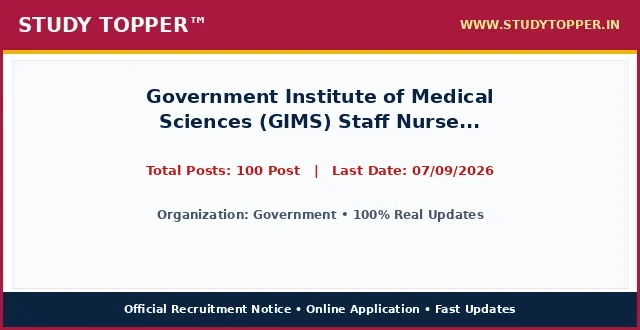
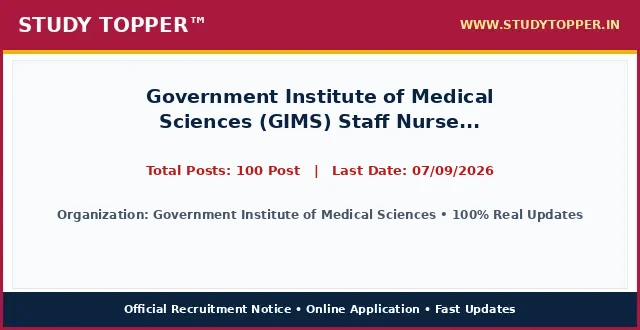
chore(lifecycle): daily auto-sort vacancies and update active dates

Changed region(s): [[0.0938, 0.6364, 0.9062, 0.6667]]

diff --git a/pages/gims-staff-nurse-august26.html b/pages/gims-staff-nurse-august26.html
@@ -987,12 +987,12 @@ ul.wp-block-latest-posts a:hover {
 <main class="site-main" id="main">
 <div class="gb-container gb-container-b39c368c">
 <h1 class="gb-headline gb-headline-e52a0102 gb-headline-text" style="font-size: 22px; font-weight: 700; color: #0000cd; text-align: left; margin: 8px 0 4px 0; line-height: 1.3; width: 100%; font-family: '-apple-system, BlinkMacSystemFont, 'Segoe UI', Roboto, 'Helvetica Neue', Arial, sans-serif', Times, serif, Hind, sans-serif;">Government Institute of Medical Sciences (GIMS) Staff Nurse Recruitment 2026 Apply Online for 100 Post</h1>
-<div class="gb-container gb-container-659bd175"><p style="color: #cd0808; font-weight: 700; font-size: 15px; margin: 2px 0 7px 0; text-align: left; font-family: '-apple-system, BlinkMacSystemFont, 'Segoe UI', Roboto, 'Helvetica Neue', Arial, sans-serif', Times, serif, Hind, sans-serif;">Post Date: August 22, 2026 12:43 PM</p></div>
-<p class="gb-headline gb-headline-550ae316 short_Details gb-headline-text" style="width: 100%; max-width: 100%; font-size: 16.8px; line-height: 1.55; color: #000000; text-align: justify; text-justify: inter-word; margin: 8px 0 14px 0; display: block; font-family: '-apple-system, BlinkMacSystemFont, 'Segoe UI', Roboto, 'Helvetica Neue', Arial, sans-serif', Times, serif, Hind, sans-serif;"><strong style="color: #0000cd;">Government</strong> has officially published the recruitment notice <strong style="color: #cd0808;">Government Institute of Medical Sciences (GIMS) Staff Nurse Recruitment 2026 Apply Online for 100 Post</strong> under notification number 2026. Online applications are invited for 100 Post across multiple departments and cadre positions. Interested candidates possessing the requisite educational qualifications and falling between 18 Years to 40 Years can complete their online registration before the application deadline of 07/09/2026. Applicants should read the eligibility criteria, category reservation rules, and exam scheme thoroughly before submitting applications.</p>
+<div class="gb-container gb-container-659bd175"><p style="color: #cd0808; font-weight: 700; font-size: 15px; margin: 2px 0 7px 0; text-align: left; font-family: '-apple-system, BlinkMacSystemFont, 'Segoe UI', Roboto, 'Helvetica Neue', Arial, sans-serif', Times, serif, Hind, sans-serif;">Post Date: August 22, 2026 12:52 PM</p></div>
+<p class="gb-headline gb-headline-550ae316 short_Details gb-headline-text" style="width: 100%; max-width: 100%; font-size: 16.8px; line-height: 1.55; color: #000000; text-align: justify; text-justify: inter-word; margin: 8px 0 14px 0; display: block; font-family: '-apple-system, BlinkMacSystemFont, 'Segoe UI', Roboto, 'Helvetica Neue', Arial, sans-serif', Times, serif, Hind, sans-serif;"><strong style="color: #0000cd;">Government Institute of Medical Sciences (GIMS) Staff Nurse    for 100</strong> has officially published the recruitment notice <strong style="color: #cd0808;">Government Institute of Medical Sciences (GIMS) Staff Nurse Recruitment 2026 Apply Online for 100 Post</strong> under notification number Official Notification 2026. Online applications are invited for 100 Post across multiple departments and cadre positions. Interested candidates possessing the requisite educational qualifications and falling between 18 Years to 40 Years can complete their online registration before the application deadline of 07/09/2026. Applicants should read the eligibility criteria, category reservation rules, and exam scheme thoroughly before submitting applications.</p>
 <div class="gb-container gb-container-9849916c"><div class="social-buttons-compact" style="display: flex; justify-content: flex-start; align-items: center; gap: 10px; margin: 10px 0 16px 0; width: 100%;"><a class="social-btn-compact wa" href="https://whatsapp.com/channel/0029Va9xyz" rel="noopener" style="background-color: #00d084; color: #ffffff; padding: 10px 18px; border-radius: 4px; text-decoration: none; font-weight: bold; font-size: 15.5px; display: inline-flex; align-items: center; justify-content: center; height: auto;" target="_blank">WhatsApp</a><a class="social-btn-compact tg" href="https://t.me/studytopperofficial" rel="noopener" style="background-color: #0088cc; color: #ffffff; padding: 10px 18px; border-radius: 4px; text-decoration: none; font-weight: bold; font-size: 15.5px; display: inline-flex; align-items: center; justify-content: center; height: auto;" target="_blank">Telegram</a></div></div>
 <div class="gb-container gb-container-f58e6ca1" style="border: 2px solid #5b032f; border-radius: 4px; overflow: hidden; margin: 15px 0 20px 0; background-color: #ffffff; width: 100%; box-sizing: border-box;">
 <h2 class="gb-headline gb-headline-2ca5a791 gb-headline-text" style="font-size: 16px; font-weight: 700; text-align: center; color: #ef0303; line-height: 1.3; padding: 6px 4px; margin: 0; background: #ffffff; font-family: '-apple-system, BlinkMacSystemFont, 'Segoe UI', Roboto, 'Helvetica Neue', Arial, sans-serif', Times, serif, Hind, sans-serif;">Government Institute of Medical Sciences (GIMS) Staff Nurse Recruitment 2026 Apply Online for 100 Post &ndash; Latest Details &amp; Updates</h2>
-<h3 class="gb-headline gb-headline-7d5f86e8 gb-headline-text" style="font-size: 16px; font-weight: 600; text-align: center; color: #009703; line-height: 1.25; margin: 0; padding: 2px 4px 6px 4px; background: #ffffff; font-family: '-apple-system, BlinkMacSystemFont, 'Segoe UI', Roboto, 'Helvetica Neue', Arial, sans-serif', Times, serif, Hind, sans-serif;">Government : Details &amp; Summary</h3>
+<h3 class="gb-headline gb-headline-7d5f86e8 gb-headline-text" style="font-size: 16px; font-weight: 600; text-align: center; color: #009703; line-height: 1.25; margin: 0; padding: 2px 4px 6px 4px; background: #ffffff; font-family: '-apple-system, BlinkMacSystemFont, 'Segoe UI', Roboto, 'Helvetica Neue', Arial, sans-serif', Times, serif, Hind, sans-serif;">Government Institute of Medical Sciences (GIMS) Staff Nurse    for 100 : Details &amp; Summary</h3>
 <p class="gb-headline gb-headline-79adf169 gb-headline-text" style="margin: 0 0 6px 0; font-family: '-apple-system, BlinkMacSystemFont, 'Segoe UI', Roboto, 'Helvetica Neue', Arial, sans-serif', Times, serif, Hind, sans-serif; text-align: center; font-size: 18px; font-weight: 700;"><a href="/" style="color: #0000ff; text-decoration: underline;">StudyTopper.in</a></p>
 
 <style id="st-post-boxes-responsive-css">
@@ -1047,7 +1047,7 @@ ul.wp-block-latest-posts a:hover {
 <div class="st-grid-row" style="display: flex; flex-wrap: wrap; width: 100%; border-top: 2px solid #5b032f; margin: 0; padding: 0; box-sizing: border-box;">
   <!-- Left Col: Age Limits -->
   <div class="st-col-half st-col-border-right" style="box-sizing: border-box; vertical-align: top;">
-    <div style="background-color: #046132; color: #ffffff; padding: 8px 10px; font-size: 17px; font-weight: 700; text-align: center; font-family: '-apple-system, BlinkMacSystemFont, 'Segoe UI', Roboto, 'Helvetica Neue', Arial, sans-serif', Times, serif, Hind, sans-serif;">Government : Age Limits As On 01/07/2026</div>
+    <div style="background-color: #046132; color: #ffffff; padding: 8px 10px; font-size: 17px; font-weight: 700; text-align: center; font-family: '-apple-system, BlinkMacSystemFont, 'Segoe UI', Roboto, 'Helvetica Neue', Arial, sans-serif', Times, serif, Hind, sans-serif;">Government Institute of Medical Sciences (GIMS) Staff Nurse    for 100 : Age Limits As On 01/07/2026</div>
     <div style="padding: 12px 14px; background-color: #ffffff;">
       <ul style="padding-left: 20px; margin: 0; list-style-type: disc; text-align: left; font-size: 14pt; line-height: 1.6; font-family: '-apple-system, BlinkMacSystemFont, 'Segoe UI', Roboto, 'Helvetica Neue', Arial, sans-serif', Times, serif, Hind, sans-serif;">
         <li><span style="font-size: 14pt;">Minimum Age : <strong>21 Years</strong></span></li><li><span style="font-size: 14pt;">Maximum Age : <strong>40 Years</strong></span></li><li><span style="font-size: 14pt;">Age Relaxation : <strong>Age Relaxation Extra as per GIMS Noida Staff Nurse Recruitment Rules.</strong></span></li>
@@ -1073,7 +1073,7 @@ ul.wp-block-latest-posts a:hover {
 <table style="border-collapse: collapse; width: 100%; height: 150px;">
 <tbody>
 <tr style="height: 25px;">
-<td colspan="2" style="width: 50%; text-align: center; height: 25px;"><span style="background-color: #000080; color: #ffffff; font-size: 14pt;"><strong> Government : Category Wise Vacancy Details </strong></span></td>
+<td colspan="2" style="width: 50%; text-align: center; height: 25px;"><span style="background-color: #000080; color: #ffffff; font-size: 14pt;"><strong> Government Institute of Medical Sciences (GIMS) Staff Nurse    for 100 : Category Wise Vacancy Details </strong></span></td>
 </tr>
 <tr style="height: 25px;">
 <td style="width: 50%; height: 25px; text-align: center;"><span style="font-size: 14pt;"><strong>Category / Particulars</strong></span></td>
@@ -1105,7 +1105,7 @@ ul.wp-block-latest-posts a:hover {
 <table style="border-collapse: collapse; width: 100%;">
 <tbody>
 <tr>
-<td style="width: 100%; text-align: center;"><span style="background-color: #000080; color: #ffffff; font-size: 14pt; font-weight: bold; display: block; padding: 6px;"> How to Fill Government Online Application Form </span></td>
+<td style="width: 100%; text-align: center;"><span style="background-color: #000080; color: #ffffff; font-size: 14pt; font-weight: bold; display: block; padding: 6px;"> How to Fill Government Institute of Medical Sciences (GIMS) Staff Nurse    for 100 Online Application Form </span></td>
 </tr>
 <tr>
 <td style="width: 100%;"><ol style="margin:0; padding-left:18px; text-align: left !important; list-style-position: outside !important"><li style="margin-bottom:6px; text-align: left !important;">Government Institute of Medical Sciences (GIMS) Are Issued GIMS Staff Nurse Examination 2026. Notification and Invited Online Application Form for the GIMS Staff Nurse Recruitment 2026 Candidate Can Apply Online for</li><li style="margin-bottom:6px; text-align: left !important;">10/07/2026 to 07/09/2026.</li><li style="margin-bottom:6px; text-align: left !important;">Kindly Check and Collect the All Document – Hand Writing, Eligibility, ID Proof, Address Details, Basic Details.</li><li style="margin-bottom:6px; text-align: left !important;">Kindly Ready Scan Document Related to Recruitment Form – Photo, Sign, ID, Thumb, Proof, Etc.</li><li style="margin-bottom:6px; text-align: left !important;">Before Submit the Application Form Must Check the Preview and All Column Carefully.</li><li style="margin-bottom:6px; text-align: left !important;">If Candidate Required to Paying the Application Fee Must Submit. If You have Not the Required Application Fees Your Form is Not Completed.</li><li style="margin-bottom:6px; text-align: left !important;">Take A Print Out of Final Submitted Form.</li><li style="margin-bottom:6px; text-align: left !important;">Resize candidate photograph and signature accurately using the <a href="https://indtool.in" rel="noopener" target="_blank"><strong>StudyTopper Tools</strong></a> image resizer at indtool.in.</li></ol></td>
@@ -1116,7 +1116,7 @@ ul.wp-block-latest-posts a:hover {
 <table style="border-collapse: collapse; width: 100%;">
 <tbody>
 <tr>
-<td style="width: 100%; text-align: center;"><span style="background-color: #000080; color: #ffffff; font-size: 14pt;"><strong><span style="color: #ffffff;"> Government Recruitment 2026 : Mode Of Selection </span></strong></span></td>
+<td style="width: 100%; text-align: center;"><span style="background-color: #000080; color: #ffffff; font-size: 14pt;"><strong><span style="color: #ffffff;"> Government Institute of Medical Sciences (GIMS) Staff Nurse    for 100 Recruitment 2026 : Mode Of Selection </span></strong></span></td>
 </tr>
 <tr>
 <td style="width: 100%;">
